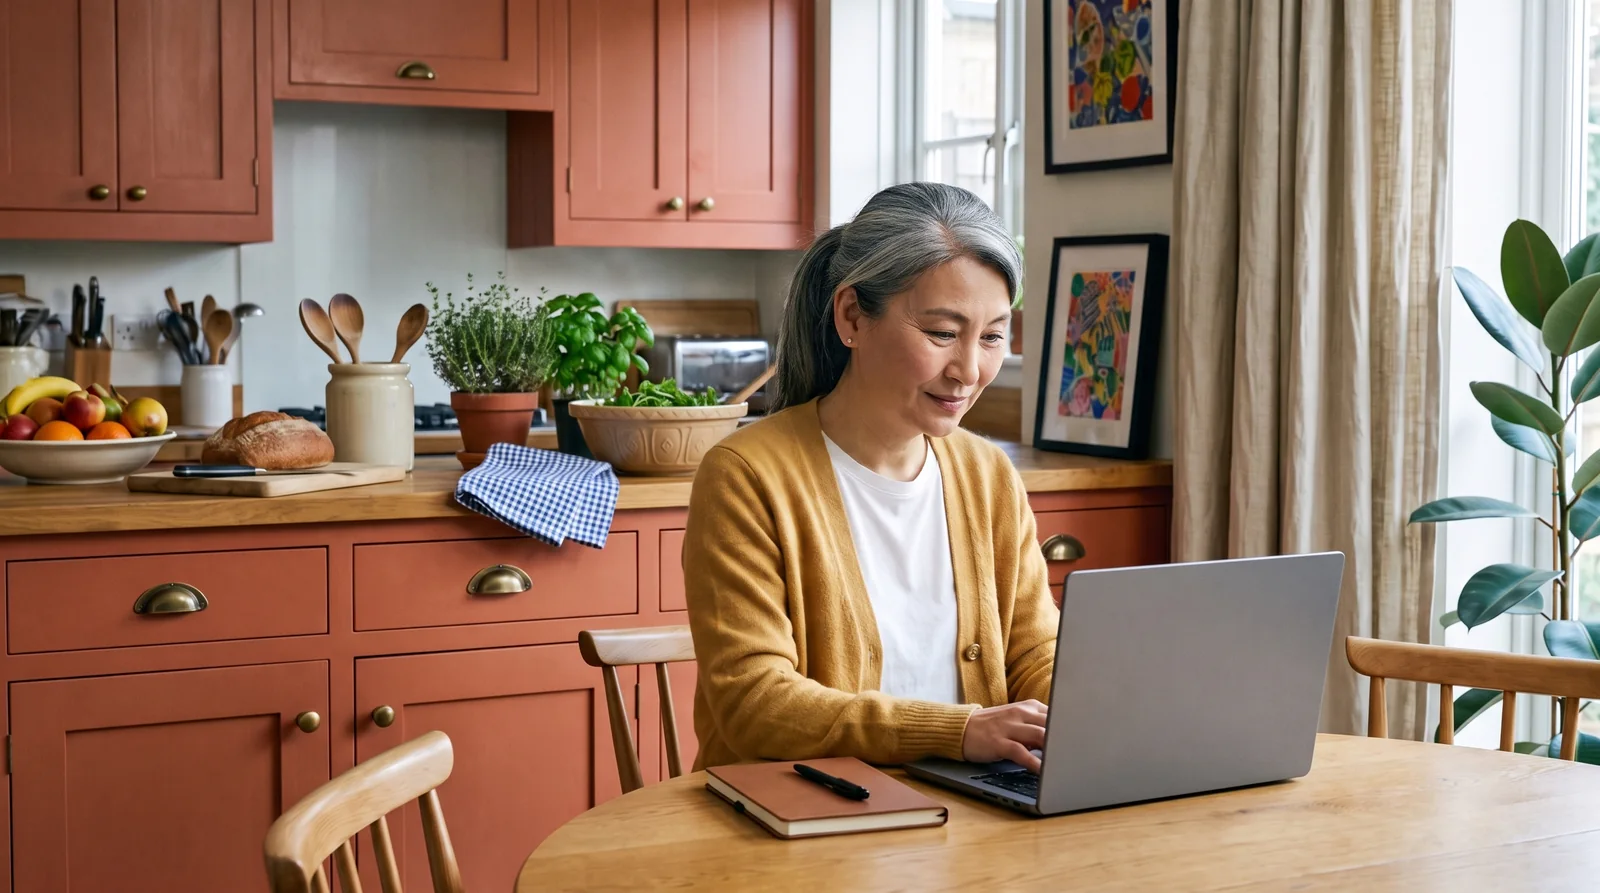
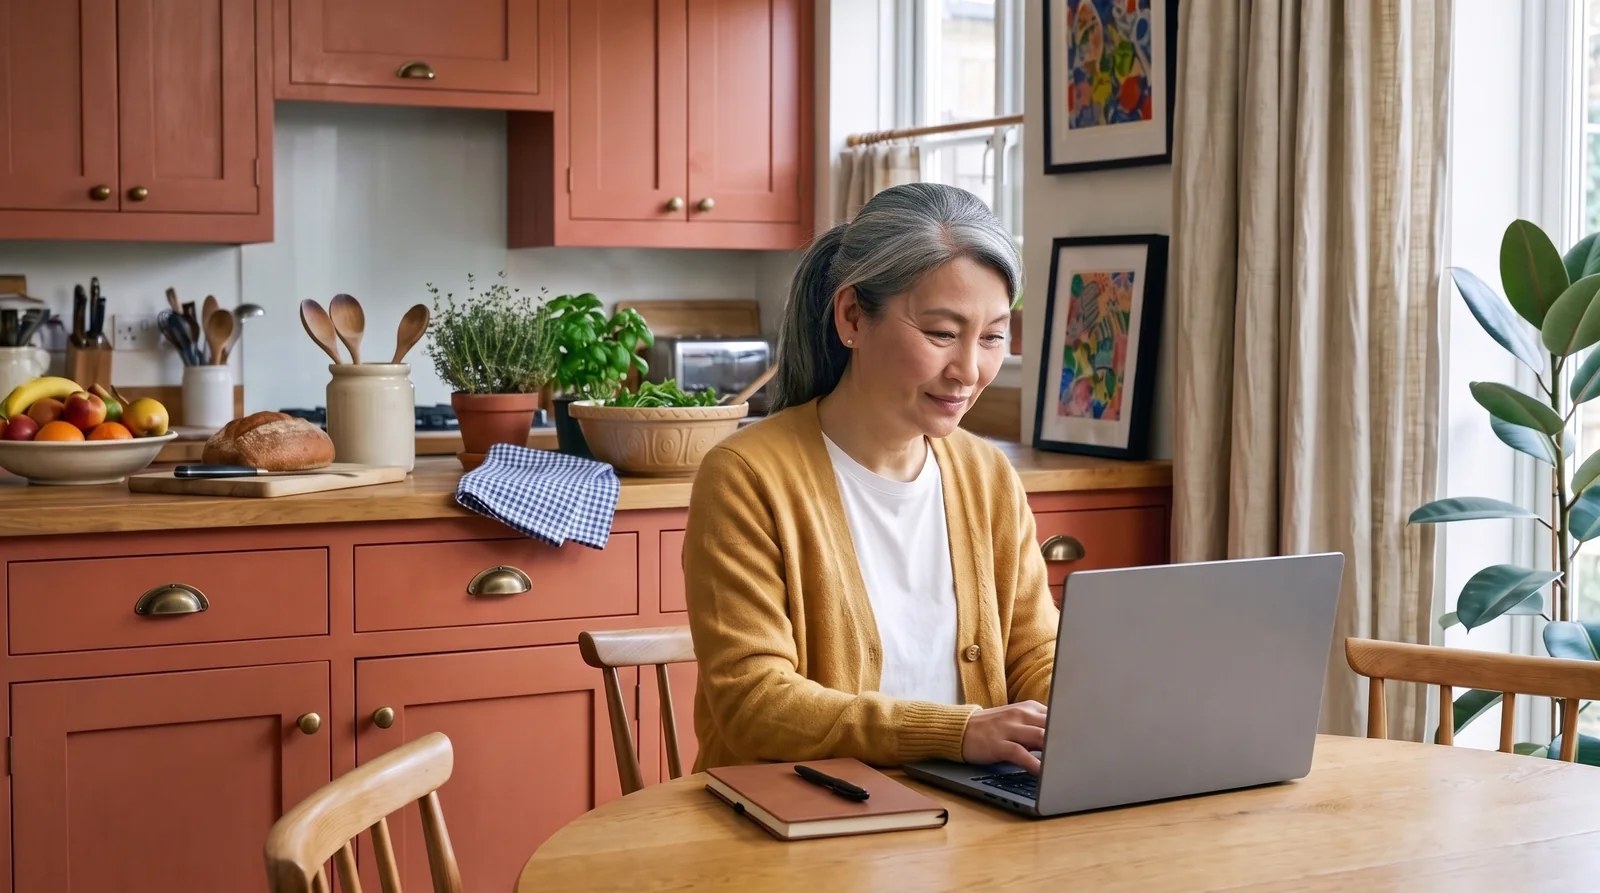
Photos: checklist fixes - curtain on whatdoesitc window, warmer isthepinkst turning point

diff --git a/blog-pipeline/photos-completed/is-the-pink-stuff-safe.md b/blog-pipeline/photos-completed/is-the-pink-stuff-safe.md
@@ -4,7 +4,7 @@ post_title: "Is The Pink Stuff Safe? (2026)"
 slug: is-the-pink-stuff-safe
 status: done
 cameron_processed: false
-note: "SHOPPER TRACK, shot on Higgsfield nano-banana-pro at native 2752x1536 and delivered at 1600px webp. EVERY FRAME WAS WALKED THROUGH ALL 14 CHECKS IN PHOTO-CLAUDE-RULES.md, written out line by line, before committing. THE TUB WAS LOOKED UP IN CHROME FIRST: a squat round white tub with a white lid and a hot pink label, THE PINK STUFF in huge white block capitals. Rendered with only those words; the faint repeated-word pattern on the villain's pink label is the real pack's own design, not added text. ONE woman across the set: about 54, shoulder-length layered honey-brown hair greying at the temples, rosy cheeks, teal cotton button shirt. THE ROOM is her modern kitchen: deep forest green flat-fronted cabinets, pale oak worktops, a white zellige splashback, a brass tap, open oak shelves of colourful bowls and plates, a built-in oven, full length linen curtains. Hero is her crouched at the open glass oven door scrubbing the scorch off with a sponge of pink paste, the tub on the worktop, pleased with the small win, exactly the moment the post is about. VILLAIN CARRIES THE ARGUMENT with nobody in it: the tub alone on the oak worktop with its lid off and a new sponge beside it, looking like pink icing, cheerful and ordinary. Turning point has her with the tub put away at the back of the worktop, hands at her sides, looking out of the curtained window, settled. BELONGING IS A NEW SETTING: two clearly different women in their fifties walking a path through a field of tall sunflowers, both laughing. Freedom is the warmest: her leaning in the open garden doorway of the kitchen at golden hour, curtains lifting, laughing. RESHOT OR FIXED TO PASS THE LIST: the first villain had a barcode and a grimy sponge; the first turning point turned the tub into a big pink washing-up bowl with a barcode sticker; the first belonging put her in a t-shirt instead of her button shirt; the hero and turning point both kept cups, glasses or titled book spines on the top shelf, so both are cropped slightly from the top to remove them. RESHOT 2026-10-03: hero, villain, turning point and freedom moved out of the handleless forest-green kitchen after Shannon flagged showroom kitchens. NEW ROOM: deep plum shaker lower cupboards with brass cup pulls and knobs, cream closed wall cupboards with brass knobs, pale grey stone worktop crowded with a fruit bowl, bread board and loaf, a crock of wooden spoons, basil and rosemary, sea-green handmade tiles, linen and patterned curtains. Hero built first from the old hero as the woman and tub reference, then used to lock the room for the other three. Hero: same crouch at the open oven scrubbing the glass. Villain: the tub alone on the worktop with a new sponge, cold grey light. Turning point: her pushing the closed tub to the back of the worktop, looking out of the window. Freedom: golden hour, drying her hands on a striped tea towel by the gleaming oven, laughing. Fixed: tub small print removed by edit, books on the sill painted out, oven display digits blanked in all four. Belonging (sunflower field) unchanged."
+note: "SHOPPER TRACK, shot on Higgsfield nano-banana-pro at native 2752x1536 and delivered at 1600px webp. EVERY FRAME WAS WALKED THROUGH ALL 14 CHECKS IN PHOTO-CLAUDE-RULES.md, written out line by line, before committing. THE TUB WAS LOOKED UP IN CHROME FIRST: a squat round white tub with a white lid and a hot pink label, THE PINK STUFF in huge white block capitals. Rendered with only those words; the faint repeated-word pattern on the villain's pink label is the real pack's own design, not added text. ONE woman across the set: about 54, shoulder-length layered honey-brown hair greying at the temples, rosy cheeks, teal cotton button shirt. THE ROOM is her modern kitchen: deep forest green flat-fronted cabinets, pale oak worktops, a white zellige splashback, a brass tap, open oak shelves of colourful bowls and plates, a built-in oven, full length linen curtains. Hero is her crouched at the open glass oven door scrubbing the scorch off with a sponge of pink paste, the tub on the worktop, pleased with the small win, exactly the moment the post is about. VILLAIN CARRIES THE ARGUMENT with nobody in it: the tub alone on the oak worktop with its lid off and a new sponge beside it, looking like pink icing, cheerful and ordinary. Turning point has her with the tub put away at the back of the worktop, hands at her sides, looking out of the curtained window, settled. BELONGING IS A NEW SETTING: two clearly different women in their fifties walking a path through a field of tall sunflowers, both laughing. Freedom is the warmest: her leaning in the open garden doorway of the kitchen at golden hour, curtains lifting, laughing. RESHOT OR FIXED TO PASS THE LIST: the first villain had a barcode and a grimy sponge; the first turning point turned the tub into a big pink washing-up bowl with a barcode sticker; the first belonging put her in a t-shirt instead of her button shirt; the hero and turning point both kept cups, glasses or titled book spines on the top shelf, so both are cropped slightly from the top to remove them. RESHOT 2026-10-03: hero, villain, turning point and freedom moved out of the handleless forest-green kitchen after Shannon flagged showroom kitchens. NEW ROOM: deep plum shaker lower cupboards with brass cup pulls and knobs, cream closed wall cupboards with brass knobs, pale grey stone worktop crowded with a fruit bowl, bread board and loaf, a crock of wooden spoons, basil and rosemary, sea-green handmade tiles, linen and patterned curtains. Hero built first from the old hero as the woman and tub reference, then used to lock the room for the other three. Hero: same crouch at the open oven scrubbing the glass. Villain: the tub alone on the worktop with a new sponge, cold grey light. Turning point: her pushing the closed tub to the back of the worktop, looking out of the window. Freedom: golden hour, drying her hands on a striped tea towel by the gleaming oven, laughing. Fixed: tub small print removed by edit, books on the sill painted out, oven display digits blanked in all four. Belonging (sunflower field) unchanged. CHECKLIST PASS 2026-10-03 (Shannon asked if it was run): the turning point was no warmer than the hero, a check 13 fail; it was given a gentle warm grade so the ramp runs hero, warmer turning point, warmest freedom."
 ---
 
 ### isthepinkst-hero-v1

diff --git a/blog-pipeline/photos-completed/what-does-it-cost-to-start.md b/blog-pipeline/photos-completed/what-does-it-cost-to-start.md
@@ -4,7 +4,7 @@ post_title: "What Does It Actually Cost to Start? (2026)"
 slug: what-does-it-cost-to-start
 status: done
 cameron_processed: false
-note: "BUILDER TRACK, shot on Higgsfield nano-banana-pro at native 2752x1536 and delivered at 1600px webp. Every frame run through the 14-point checklist in PHOTO-CLAUDE-RULES.md before committing. THE FTC RULE IS HARDEST ON THIS POST because the subject IS cost, so there is no cash, no card, no wallet, no receipt, no calculator, no chart and no clock anywhere, and the laptop screen faces away with a completely plain lid. SOLVING THE SUBJECT WITHOUT MONEY: what it actually costs to start is shown as space and an evening. ONE woman across the set: an East Asian woman of about 47, straight black hair in a low ponytail greying at the temples, mustard cardigan over a white tee, dark jeans. THE ROOM is her modern kitchen diner: pale birch flat-fronted cabinets, white quartz worktop, forest green tiled splashback, round oak table with moulded chairs, full length linen curtains on a pole, a big rubber plant, colourful abstract art. Hero is her at the table on an ordinary working morning, calm and capable, before anything changed. VILLAIN CARRIES THE ARGUMENT with nobody in it: the hallway cupboard open at night, every other shelf neatly full of ordinary household things, and ONE SHELF CLEARED AND WIPED BARE, empty and waiting, a folded cloth left on its edge. A cleared shelf and an evening is the real price. Turning point has her close the plain laptop, take her hand off it and turn to the window, settled. BELONGING IS A NEW SETTING and it is indoors for once: two clearly different women in their fifties on a rattan sofa in the bright garden room of a modern house, plants everywhere, one laughing with her head back, both with their hands flat and still on their knees. Freedom is the warmest: her up a step in her own tidy modern garden hanging festoon lights along the fence at golden hour, laughing. Two frames were reshot: the turning point had an Apple logo on the laptop lid, and the first belonging had a gesturing hand with fingers merging at the tips. RESHOT 2026-10-03: hero and turning point moved to a real lived-in kitchen (terracotta shaker cupboards with brass knobs and cup handles, closed wall cabinets, crowded oak worktop, curtains) after Shannon flagged handleless showroom kitchens. Same woman locked across both frames, laptop lid plain, closed in the turning point."
+note: "BUILDER TRACK, shot on Higgsfield nano-banana-pro at native 2752x1536 and delivered at 1600px webp. Every frame run through the 14-point checklist in PHOTO-CLAUDE-RULES.md before committing. THE FTC RULE IS HARDEST ON THIS POST because the subject IS cost, so there is no cash, no card, no wallet, no receipt, no calculator, no chart and no clock anywhere, and the laptop screen faces away with a completely plain lid. SOLVING THE SUBJECT WITHOUT MONEY: what it actually costs to start is shown as space and an evening. ONE woman across the set: an East Asian woman of about 47, straight black hair in a low ponytail greying at the temples, mustard cardigan over a white tee, dark jeans. THE ROOM is her modern kitchen diner: pale birch flat-fronted cabinets, white quartz worktop, forest green tiled splashback, round oak table with moulded chairs, full length linen curtains on a pole, a big rubber plant, colourful abstract art. Hero is her at the table on an ordinary working morning, calm and capable, before anything changed. VILLAIN CARRIES THE ARGUMENT with nobody in it: the hallway cupboard open at night, every other shelf neatly full of ordinary household things, and ONE SHELF CLEARED AND WIPED BARE, empty and waiting, a folded cloth left on its edge. A cleared shelf and an evening is the real price. Turning point has her close the plain laptop, take her hand off it and turn to the window, settled. BELONGING IS A NEW SETTING and it is indoors for once: two clearly different women in their fifties on a rattan sofa in the bright garden room of a modern house, plants everywhere, one laughing with her head back, both with their hands flat and still on their knees. Freedom is the warmest: her up a step in her own tidy modern garden hanging festoon lights along the fence at golden hour, laughing. Two frames were reshot: the turning point had an Apple logo on the laptop lid, and the first belonging had a gesturing hand with fingers merging at the tips. RESHOT 2026-10-03: hero and turning point moved to a real lived-in kitchen (terracotta shaker cupboards with brass knobs and cup handles, closed wall cabinets, crowded oak worktop, curtains) after Shannon flagged handleless showroom kitchens. Same woman locked across both frames, laptop lid plain, closed in the turning point. CHECKLIST PASS 2026-10-03 (Shannon asked if it was run): the small window behind her head had no curtain in the hero and turning point, a check 3 fail; a linen curtain on a pole was added to both, and the turning point light warmed slightly."
 ---
 
 ### whatdoesitc-hero-v1
